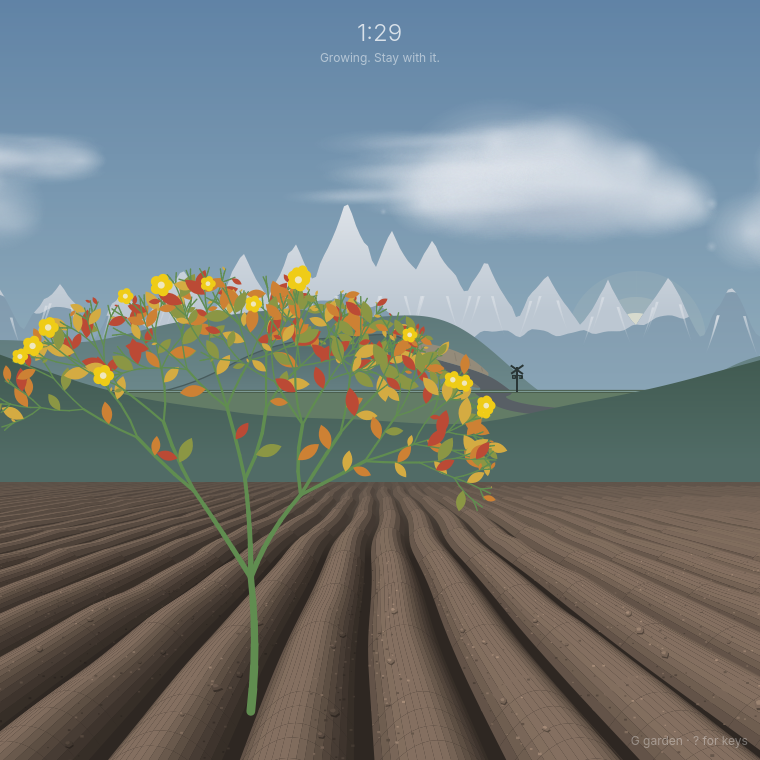
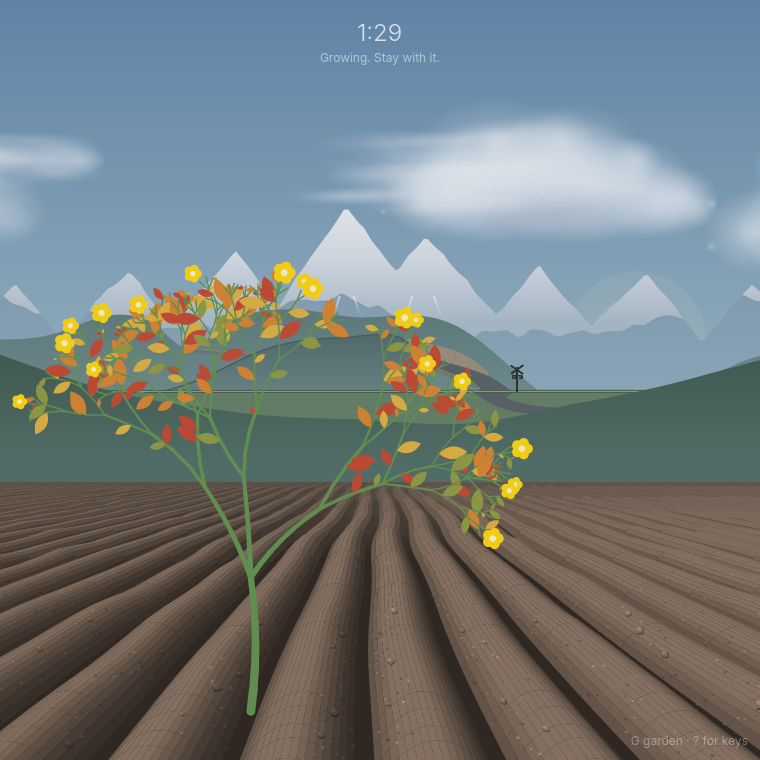
Gentler peaks with snow whitest on top, and the road over a pass

Changed region(s): [[0.0, 0.3329, 0.9079, 0.7566], [0.4237, 0.2724, 0.6053, 0.3632], [0.9684, 0.3632, 1.0, 0.3934]]

diff --git a/src/Hills.qml b/src/Hills.qml
@@ -57,29 +57,31 @@ Canvas {
     // middle, its top (fraction of the height above the horizon), and how
     // steeply it falls away on the left and on the right.
     readonly property var peaks: [
-        [0.0, 0.215, 1.6, 1.8], [0.08, 0.235, 1.5, 2.0], [0.16, 0.222, 1.8, 1.6],
-        [0.24, 0.25, 1.6, 2.1], [0.32, 0.265, 1.9, 1.7], [0.39, 0.285, 2.0, 2.4],
-        [0.455, 0.335, 2.6, 2.2], [0.515, 0.302, 2.3, 1.9], [0.57, 0.287, 2.1, 1.8],
-        [0.64, 0.255, 1.7, 1.9], [0.72, 0.242, 1.6, 1.7], [0.8, 0.228, 1.7, 1.5],
-        [0.88, 0.24, 1.5, 1.9], [0.96, 0.222, 1.8, 1.6], [1.03, 0.21, 1.6, 1.6]
+        [0.02, 0.225, 1.1, 1.2], [0.17, 0.245, 1.0, 1.3], [0.31, 0.27, 1.2, 1.4],
+        [0.455, 0.33, 1.5, 1.3], [0.56, 0.29, 1.3, 1.1], [0.71, 0.25, 1.1, 1.2],
+        [0.85, 0.24, 1.0, 1.2], [0.99, 0.225, 1.1, 1.0]
     ]
     function far(u, H) {
-        var h = 0.13
+        var h = 0.15
         for (var i = 0; i < peaks.length; i++) {
             var p = peaks[i]
             var fall = u < p[0] ? (p[0] - u) * p[2] : (u - p[0]) * p[3]
             h = Math.max(h, p[1] - fall)
         }
         // A serrated skyline: granite breaks into teeth and notches.
-        h += 0.011 * (ridged(u * 38 + 7, 9) - 0.45) + 0.005 * (noise(u * 95, 10) - 0.5)
+        h += 0.005 * (ridged(u * 30 + 7, 9) - 0.45) + 0.0025 * (noise(u * 80, 10) - 0.5)
         return H * h
     }
     function mid(u, H) {
         // A shoulder of hill rises behind the level crossing, so the road
-        // beyond the rails has a slope to climb into.
+        // beyond the rails has a slope to climb into, and a saddle dips in the
+        // ridge to the left of it: the pass the road goes over.
         var shoulder = (u - 0.6) / 0.12
+        var pass = (u - 0.25) / 0.04
+        var west = (u - 0.14) / 0.07
         return H * (0.035 + 0.15 * noise(u * 2.6 + 5, 4)) + H * 0.025 * noise(u * 8.2, 5)
-               + H * 0.07 * Math.exp(-shoulder * shoulder)
+               + H * 0.07 * Math.exp(-shoulder * shoulder) - H * 0.04 * Math.exp(-pass * pass)
+               + H * 0.03 * Math.exp(-west * west)
     }
     function near(u, H) {
         // Two hills, one at each edge, with a low meadow between them. The
@@ -141,9 +143,12 @@ Canvas {
             ctx.lineTo(sx, snowY + wobble)
         }
         ctx.closePath()
-        var cap = ctx.createLinearGradient(0, y0 - H * 0.34, 0, snowY)
+        // It is colder the higher you go, so the snow is whitest on the summits
+        // and greyer, thinner, toward its lower edge.
+        var cap = ctx.createLinearGradient(0, y0 - H * 0.33, 0, snowY + H * 0.02)
         cap.addColorStop(0, snowColor)
-        cap.addColorStop(1, mix(snowColor, farColor, 0.35))
+        cap.addColorStop(0.45, mix(snowColor, farColor, 0.2))
+        cap.addColorStop(1, mix(snowColor, farColor, 0.6))
         ctx.fillStyle = cap
         ctx.fill()
         // Below the snowfields, snow runs on down the steep gullies that score
@@ -151,9 +156,9 @@ Canvas {
         // and thinning out to nothing.
         for (var pk = 0; pk < peaks.length; pk++) {
             var peak = peaks[pk]
-            if (y0 - H * peak[1] > snowY - H * 0.015)
+            if (peak[1] < 0.28)
                 continue
-            for (var g = 0; g < 3; g++) {
+            for (var g = 0; g < 2; g++) {
                 var side = g === 1 ? 1 : -1
                 var slope = side < 0 ? peak[2] : peak[3]
                 var gu = peak[0] + side * (0.006 + 0.016 * noise(pk * 2.1 + g * 5, 11))

diff --git a/src/Train.qml b/src/Train.qml
@@ -244,6 +244,57 @@ Item {
                 ctx.lineTo(topPt.x + (footPt.x - topPt.x) * 0.7 + 1, topPt.y + (footPt.y - topPt.y) * 0.75)
                 ctx.stroke()
             }
+            // Beyond the near hill the road keeps climbing, and comes back into
+            // view higher up and farther off: a thin line traversing the farther
+            // hill to the saddle in its ridge, where it goes over the pass. It is
+            // drawn before the near hill, so only the stretch above it shows.
+            function hash(i, seed) {
+                var v = Math.sin(i * 127.1 + seed * 311.7) * 43758.5453
+                return v - Math.floor(v)
+            }
+            function noise(v, seed) {
+                var i = Math.floor(v), f = v - i
+                var u = f * f * (3 - 2 * f)
+                return hash(i, seed) * (1 - u) + hash(i + 1, seed) * u
+            }
+            // The farther ridge's skyline, as Hills.qml draws it (mid()).
+            function ridgeY(px) {
+                var u = px / W
+                var shoulder = (u - 0.6) / 0.12
+                var pass = (u - 0.25) / 0.04
+                var west = (u - 0.14) / 0.07
+                var rise = H * (0.035 + 0.15 * noise(u * 2.6 + 5, 4)) + H * 0.025 * noise(u * 8.2, 5)
+                           + H * 0.07 * Math.exp(-shoulder * shoulder) - H * 0.04 * Math.exp(-pass * pass)
+                           + H * 0.03 * Math.exp(-west * west)
+                return H * root.horizon - rise
+            }
+            var saddle = { x: W * 0.25, y: ridgeY(W * 0.25) + H * 0.002 }
+            // It comes out from behind the near hill's top and rises steadily
+            // across the farther hill to the pass.
+            var hidden = { x: curve(far0, far1, far2, far3, 0.86).x - W * 0.12, y: H * root.horizon - H * 0.128 }
+            function upper(path) {
+                ctx.beginPath()
+                ctx.moveTo(hidden.x, hidden.y)
+                ctx.bezierCurveTo(hidden.x - W * 0.06, hidden.y - H * 0.006,
+                                  saddle.x + W * 0.07, saddle.y + H * 0.01,
+                                  saddle.x, saddle.y)
+            }
+            ctx.lineCap = "butt"
+            // The sliver of cut above it, then the road.
+            ctx.strokeStyle = Qt.darker(root.cutColor, 1.1)
+            ctx.lineWidth = Math.max(1, H * 0.0025)
+            ctx.save()
+            ctx.translate(0, -H * 0.003)
+            upper()
+            ctx.stroke()
+            ctx.restore()
+            ctx.strokeStyle = Qt.rgba(root.roadColor.r + (root.hazeColor.r - root.roadColor.r) * 0.2,
+                                      root.roadColor.g + (root.hazeColor.g - root.roadColor.g) * 0.2,
+                                      root.roadColor.b + (root.hazeColor.b - root.roadColor.b) * 0.2, 1)
+            ctx.lineWidth = Math.max(2, H * 0.0045)
+            upper()
+            ctx.stroke()
+
             // A nearer hill stands to the left of the cut. Its right flank comes
             // steeply down across the farther hill and the road's last stretch,
             // so the road passes out of sight behind it. Being nearer, it is

diff --git a/src/main.cpp b/src/main.cpp
@@ -22,7 +22,7 @@
 int main(int argc, char *argv[]) {
     QGuiApplication app(argc, argv);
     app.setApplicationName("grove");
-    app.setApplicationVersion("0.6.5");
+    app.setApplicationVersion("0.7.0");
 
     // Matches the window to grove.desktop, so the compositor (Wayland app_id)
     // and the launcher pick up the installed icon.
